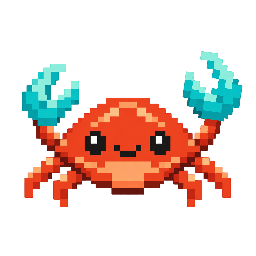
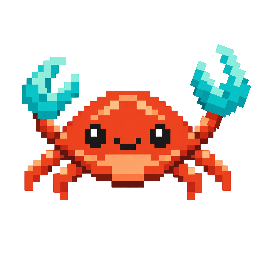
docs: give the mascot a stronger wave and bounce

Changed region(s): [[0.0625, 0.1562, 1.0, 0.8125]]

diff --git a/scripts/render-mascot.py b/scripts/render-mascot.py
@@ -11,13 +11,13 @@ SOURCE = ASSETS / "mascot-animation"
 FRAMES = SOURCE / "frames"
 
 
-def build_poses(size):
+def build_poses(size, motions):
     original = Image.open(ASSETS / "crabloop-mascot.png").convert("RGBA")
     closed = Image.open(SOURCE / "blink-source.png").convert("RGBA")
     if original.size != (1254, 1254) or closed.size != original.size:
         raise ValueError("Revisit the eye regions and claw pivot when replacing the source artwork")
 
-    # Use only the generated eye patches so the body stays perfectly still.
+    # Use only the generated eye patches to preserve the original character.
     eye_mask = Image.new("L", original.size)
     draw = ImageDraw.Draw(eye_mask)
     for box in [(408, 636, 524, 764), (728, 636, 843, 764)]:
@@ -45,14 +45,23 @@ def build_poses(size):
     claw = original.copy()
     claw.putalpha(ImageChops.multiply(original.getchannel("A"), claw_mask))
     removal = claw_mask.copy()
-    ImageDraw.Draw(removal).rectangle((0, 638, 1254, 1254), fill=0)
+    ImageDraw.Draw(removal).rectangle((0, 620, 1254, 1254), fill=0)
     body = original.copy()
     body.putalpha(ImageChops.multiply(original.getchannel("A"), ImageChops.invert(removal)))
-    for name, angle in [("wave-out", -4), ("wave-out-max", -8), ("wave-in", 5)]:
-        moved = claw.rotate(angle, resample=Image.Resampling.NEAREST, center=(1028, 640))
-        poses[name] = Image.alpha_composite(body, moved)
+    for name, motion in motions.items():
+        moved = claw.rotate(motion["angle"], resample=Image.Resampling.NEAREST, center=(1028, 640))
+        poses[name] = Image.alpha_composite(body, moved) if motion["angle"] else original.copy()
 
-    return {name: frame.resize((size, size), Image.Resampling.NEAREST) for name, frame in poses.items()}
+    frames = {}
+    for name, pose in poses.items():
+        frame = pose.resize((size, size), Image.Resampling.NEAREST)
+        dy = round(motions.get(name, {}).get("dy", 0) * size / 256)
+        if dy:
+            shifted = Image.new("RGBA", frame.size)
+            shifted.alpha_composite(frame, (0, dy))
+            frame = shifted
+        frames[name] = frame
+    return frames
 
 
 def export_gif(poses, timeline):
@@ -82,7 +91,7 @@ def export_gif(poses, timeline):
 
 def main():
     timeline = json.loads((SOURCE / "timeline.json").read_text())
-    poses = build_poses(timeline["size"])
+    poses = build_poses(timeline["size"], timeline["motions"])
     FRAMES.mkdir(exist_ok=True)
     for name, frame in poses.items():
         frame.save(FRAMES / f"{name}.png", optimize=True)

diff --git a/docs/assets/mascot-animation/README.md b/docs/assets/mascot-animation/README.md
@@ -1,6 +1,6 @@
 # 小螃蟹：眨眼与单钳轻挥
 
-2026-10-14。输出：[crabloop-mascot.gif](../crabloop-mascot.gif)，256 × 256、3.9 秒、无限循环、透明背景。
+2026-10-14。输出：[crabloop-mascot.gif](../crabloop-mascot.gif)，256 × 256、3.2 秒、无限循环、透明背景。
 
 <img src="../crabloop-mascot.gif" alt="微笑的小螃蟹眨眼并轻挥右侧钳子" width="256">
 
@@ -8,8 +8,8 @@
 
 - [静态吉祥物](../crabloop-mascot.png)：固定主体，1254 × 1254 RGBA。
 - [blink-source.png](blink-source.png)：内置 imagegen 生成的闭眼关键帧，只使用眼睛区域；[实际提示词](blink-prompt.txt)。
-- [frames/](frames/)：六张 256px RGBA 源帧，包含睁眼、半闭眼、闭眼和三个挥钳位置。
-- [timeline.json](timeline.json)：15 段姿态与停顿时长，总计 3900ms。重复姿态复用同一张源帧。
+- [frames/](frames/)：十张 256px RGBA 源帧，包含睁眼、半闭眼、闭眼和挥钳、预备与起伏位置。
+- [timeline.json](timeline.json)：24 段姿态与停顿时长，总计 3200ms。重复姿态复用同一张源帧。
 - [scripts/render-mascot.py](../../../scripts/render-mascot.py)：本地帧组装与 GIF 导出脚本。
 
 ## 重建与修改
@@ -20,10 +20,10 @@
 python3 scripts/render-mascot.py
 ```
 
-脚本更新六张源帧和最终 GIF。`timeline.json` 的 `duration_ms` 控制停顿和挥动节奏，单位为毫秒，使用 10ms 的整数倍；`size` 控制输出边长。
+脚本更新十张源帧和最终 GIF。`timeline.json` 的 `duration_ms` 控制停顿和挥动节奏，单位为毫秒，使用 10ms 的整数倍；`size` 控制输出边长。`motions` 中的 `angle` 控制单钳旋转角度，`dy` 是以 256px 输出为基准的整体垂直位移。
 
-主体始终来自静态 PNG；闭眼仅使用生成图的眼部小区域，半闭眼由原眼睛压缩到一半高度。挥动仅旋转画面右侧的钳子和上臂，角度为 -4°、-8°、+5°，其余身体与微笑保持稳定。像素图使用最近邻缩放；GIF 使用统一调色板和逐帧清屏，避免颜色跳动及透明背景残影。
+主体始终来自静态 PNG；闭眼仅使用生成图的眼部小区域，半闭眼由原眼睛压缩到一半高度。挥动仅旋转画面右侧的钳子和上臂，角度覆盖 -20° 到 +20°，身体配合上提最多 7px、预备下沉 2px，表情和造型保持一致。像素图使用最近邻缩放；GIF 使用统一调色板和逐帧清屏，避免颜色跳动及透明背景残影。
 
 GIF 透明度只有开/关两种；RGBA 源帧保留 alpha，导出时将 alpha <128 的像素设为透明。源图若替换为不同尺寸或角色位置，需要同步调整脚本中的眼部范围和钳子转轴。
 
-首尾均为原位。检查了每帧透明角、完整钳尖/腿部、帧数/总时长、源帧中变化区域，以及浅色和深色背景的浏览器预览。生成脚本属于品牌素材工具，不参与 Agent 运行。
+首尾均为原位。检查了每帧透明角、完整钳尖/腿部、帧数/总时长、源帧中变化区域，以及浅色和深色背景、128px 显示尺寸的浏览器预览。生成脚本属于品牌素材工具，不参与 Agent 运行。

diff --git a/docs/assets/README.md b/docs/assets/README.md
@@ -4,7 +4,7 @@
 
 - [crabloop-banner.png](crabloop-banner.png)：README 首屏，标题 CrabLoop，文案为 “A small agent harness, built step by step in Rust.”。
 - [crabloop-mascot.png](crabloop-mascot.png)：透明背景独立吉祥物。
-- [crabloop-mascot.gif](crabloop-mascot.gif)：256px、3.9 秒无限循环的眨眼与单钳轻挥动图；[源帧、时间安排与重建说明](mascot-animation/README.md)。
+- [crabloop-mascot.gif](crabloop-mascot.gif)：256px、3.2 秒无限循环的眨眼与单钳轻挥动图；[源帧、时间安排与重建说明](mascot-animation/README.md)。
 
 素材使用内置 imagegen 生成，Banner 采用用户选定的 T2 探索稿，并经用户明确授权以本地图像工具裁除上下留白；独立吉祥物以该 Banner 为输入提取。标题是图像中的字形设计，未绑定具体字体文件，不宣称精确使用某个字体家族。以后若需要可编辑排版，再明确字体与其来源。
 
@@ -14,7 +14,7 @@
 
 <img src="crabloop-mascot.gif" alt="微笑的小螃蟹眨眼并轻挥一只青绿钳子" width="160">
 
-GIF 保留透明背景；循环先停顿、眨眼，再小幅挥动一只钳子，回到原位。独立动图用于需要轻微动态的场合；静态 PNG 和首页 Banner 仍可直接使用。
+GIF 保留透明背景；循环短暂停顿、眨眼，再明显挥动一只钳子并配合轻微起伏，最后回到原位。独立动图用于需要轻微动态的场合；静态 PNG 和首页 Banner 仍可直接使用。
 
 ## 后续编辑入口
 

diff --git a/docs/todo.md b/docs/todo.md
@@ -64,6 +64,6 @@
 
 - [x] **REQ-033：精简 v1 工具显示。** 删除工具 JSON 轨迹开关及专用测试，验收脚本使用独立 verifier 和实际产物，不从预览推断内部调用。395 代码行 / 456 物理行，43 Rust + 5 Python、串行七步重建与本地 release 验证通过；实现 `d3bfaf4`。[实施与验证](devlog/31-v1-remove-trace.md)
 
-- [x] **REQ-034：吉祥物 GIF。** 透明背景、微笑、眨眼与单钳轻挥，256px、3.9 秒循环；归档生成提示词、六张源帧、时间安排和重建脚本。[动图与源文件](assets/mascot-animation/README.md) · [记录](devlog/32-mascot-animation.md)
+- [x] **REQ-035：吉祥物 GIF。** 透明背景、微笑、眨眼与单钳轻挥，256px、3.2 秒循环，明显挥钳并配合轻起伏；归档生成提示词、十张源帧、时间安排和重建脚本。[动图与源文件](assets/mascot-animation/README.md) · [记录](devlog/32-mascot-animation.md)
 
 - [x] **REQ-034：v1 成功工具不回显正文。** 保留名称、命令/路径和 done；失败显示最多 160 字节的单行诊断，包含 Bash 退出码/超时状态。模型反馈不裁剪，不新增显示开关。43 Rust + 5 Python、串行七步重建和 release 检查通过；实现 `2cf6e9f`。[实施与验证](devlog/32-v1-quiet-tool-results.md)

diff --git a/docs/devlog/32-mascot-animation.md b/docs/devlog/32-mascot-animation.md
@@ -5,3 +5,7 @@
 内置 imagegen 生成保持原造型的闭眼参考帧。本地脚本只取眼部小区域，主体来自原始透明 PNG；挥钳使用独立图层的小角度旋转。六张 RGBA 源帧、15 段时间安排、闭眼提示词与重建脚本一并归档。
 
 输出为 256 × 256 透明 GIF，循环 3900ms。验证每帧角落透明、首尾原位、动作区域局限于眼睛/单钳，并查看浅色与深色背景下的浏览器预览。PNG 与首页 Banner 保持既有用途；资产说明页展示动图。未修改运行时代码、Cargo 依赖或学习分支。
+
+用户反馈首版动作不明显后，将挥钳范围扩大到 -20° 至 +20°，增加最多 7px 的上提与 2px 的预备下沉，并把开始停顿从 1300ms 缩短至 450ms。当前为十张源帧、24 段时间安排、3200ms 循环；动作参数进入 timeline.json，方便后续调节。旧版 3900ms 记录保留为首次实现事实。
+
+同时将 GIF 待办更正为 REQ-035，解决此前与 v1 工具结果显示条目同用 REQ-034 的编号冲突。
